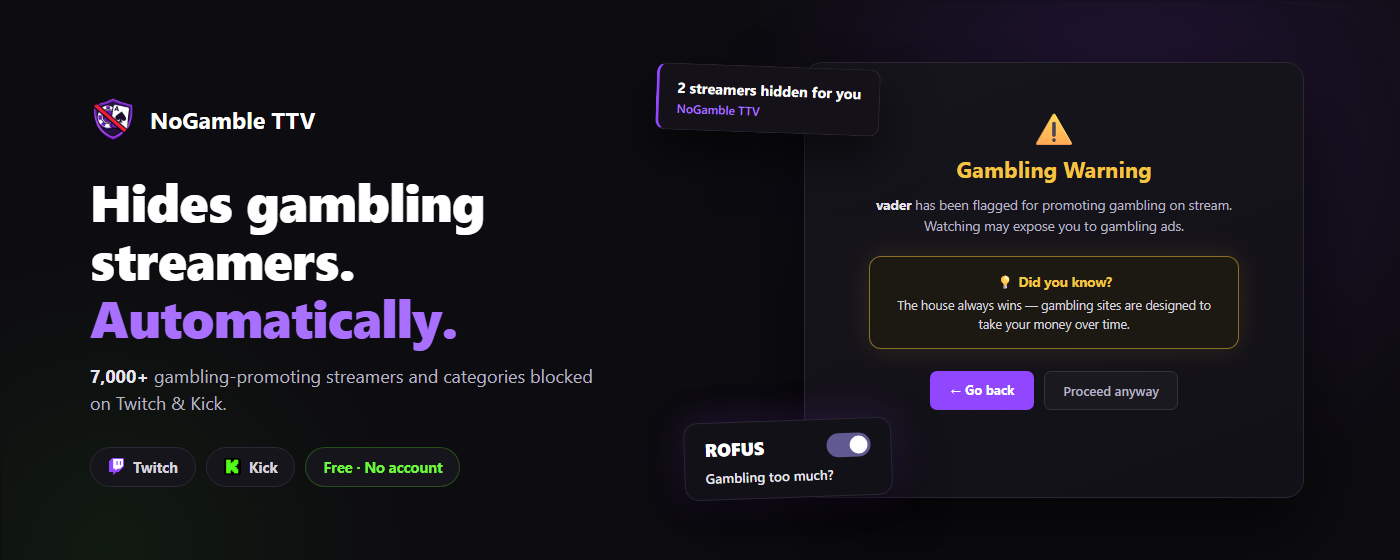
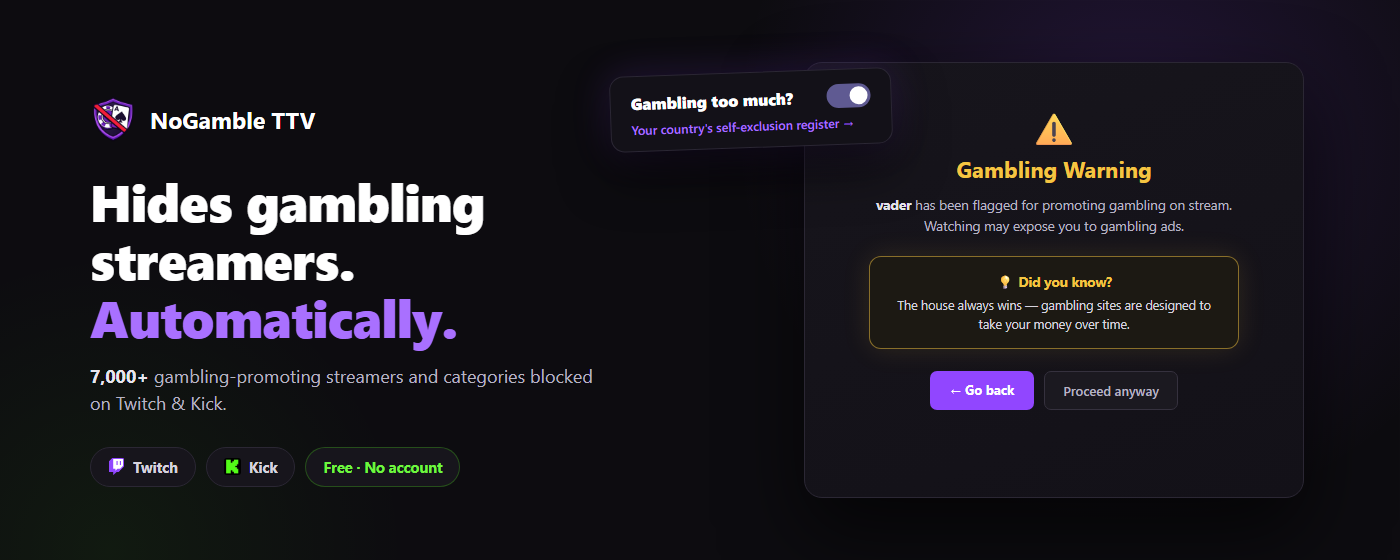
chore: refine store listing visuals
- poster-sized type so text stays readable at listing scale
- remove '2 streamers hidden' fragment (UI that no longer exists)
- generic self-exclusion widget mock — no real register brands
- drop browser pills and baked-in language count

diff --git a/design/src/store-image.html b/design/src/store-image.html
@@ -11,147 +11,79 @@
     color: #fff;
     position: relative;
   }
-  /* Ambient glows */
   .glow-purple {
     position: absolute; width: 900px; height: 900px; right: -220px; top: -260px;
-    background: radial-gradient(circle, rgba(145,70,255,0.14) 0%, transparent 62%);
+    background: radial-gradient(circle, rgba(145,70,255,0.15) 0%, transparent 62%);
   }
   .glow-green {
     position: absolute; width: 700px; height: 700px; left: -200px; bottom: -300px;
-    background: radial-gradient(circle, rgba(83,252,24,0.06) 0%, transparent 60%);
+    background: radial-gradient(circle, rgba(83,252,24,0.07) 0%, transparent 60%);
   }
 
   /* ── Left column ─────────────────────────────────────── */
-  .left { position: absolute; left: 64px; top: 88px; width: 400px; }
-  .brand { display: flex; align-items: center; gap: 14px; margin-bottom: 42px; }
-  .brand img { width: 46px; height: 46px; border-radius: 10px; }
-  .brand .name { font-size: 23px; font-weight: 700; letter-spacing: 0.2px; }
-  h1 { font-size: 46px; line-height: 1.13; font-weight: 800; letter-spacing: -0.5px; }
+  .left { position: absolute; left: 60px; top: 110px; width: 560px; }
+  .brand { display: flex; align-items: center; gap: 16px; margin-bottom: 48px; }
+  .brand img { width: 56px; height: 56px; border-radius: 12px; }
+  .brand .name { font-size: 30px; font-weight: 700; letter-spacing: 0.2px; }
+  h1 { font-size: 68px; line-height: 1.08; font-weight: 800; letter-spacing: -1px; }
   h1 .accent { color: #a970ff; }
-  .sub { margin-top: 18px; font-size: 16.5px; line-height: 1.55; color: #b8b4c2; max-width: 380px; }
-  .checks { margin-top: 34px; display: flex; flex-direction: column; gap: 16px; }
-  .check { display: flex; align-items: center; gap: 12px; font-size: 16px; color: #e8e6ee; font-weight: 600; }
-  .check .tick {
-    width: 24px; height: 24px; border-radius: 50%; flex-shrink: 0;
-    background: rgba(83,252,24,0.13); color: #6ff53f;
-    display: flex; align-items: center; justify-content: center;
-    font-size: 13px; font-weight: 700;
+  .sub { margin-top: 28px; font-size: 26px; line-height: 1.45; color: #c9c5d4; max-width: 520px; font-weight: 600; }
+  .sub b { color: #fff; }
+  .pills { margin-top: 40px; display: flex; gap: 12px; flex-wrap: wrap; }
+  .pill {
+    display: flex; align-items: center; gap: 10px;
+    background: #17151c; border: 1.5px solid #322e3c; border-radius: 999px;
+    padding: 13px 24px; font-size: 20px; font-weight: 700; color: #e8e6ee;
   }
-  .check img { width: 19px; height: 19px; border-radius: 4px; margin: 0 1px; vertical-align: -3px; }
-  .browsers { margin-top: 44px; display: flex; gap: 10px; }
-  .bpill {
-    display: flex; align-items: center; gap: 8px;
-    background: #17151c; border: 1px solid #29262f; border-radius: 999px;
-    padding: 8px 16px; font-size: 14px; font-weight: 600; color: #d6d3de;
-  }
-  .bpill img { width: 17px; height: 17px; }
+  .pill img { width: 24px; height: 24px; border-radius: 5px; }
+  .pill.free { color: #6ff53f; border-color: rgba(83,252,24,0.3); }
 
   /* ── Hero overlay card ───────────────────────────────── */
   .overlay-card {
-    position: absolute; right: 62px; top: 108px; width: 620px; height: 584px;
+    position: absolute; right: 56px; top: 96px; width: 560px; height: 608px;
     background: linear-gradient(160deg, #17151c 0%, #131118 100%);
-    border: 1px solid #2b2734; border-radius: 20px;
+    border: 1px solid #2b2734; border-radius: 22px;
     box-shadow: 0 40px 90px rgba(0,0,0,0.65);
-    padding: 118px 58px 0; text-align: center;
+    padding: 64px 44px 0; text-align: center;
     overflow: hidden;
   }
-  /* faux blurred stream peeking behind the warning */
-  .stream-ghost {
-    position: absolute; inset: 0 0 auto 0; height: 96px;
-    background: linear-gradient(90deg, rgba(145,70,255,0.10), rgba(145,70,255,0.03) 55%, rgba(83,252,24,0.05));
-    border-bottom: 1px solid rgba(255,255,255,0.04);
-  }
-  .stream-ghost .avatar {
-    position: absolute; left: 156px; top: 24px; width: 44px; height: 44px; border-radius: 50%;
-    background: radial-gradient(circle at 35% 30%, rgba(169,112,255,0.45), rgba(169,112,255,0.12));
-    border: 2px solid rgba(235,72,66,0.75);
-  }
-  .stream-ghost .fake-title {
-    position: absolute; left: 214px; top: 30px; width: 190px; height: 13px; border-radius: 7px;
-    background: rgba(255,255,255,0.09);
-  }
-  .stream-ghost .fake-sub {
-    position: absolute; left: 214px; top: 53px; width: 120px; height: 10px; border-radius: 5px;
-    background: rgba(255,255,255,0.055);
-  }
-  .stream-ghost .live {
-    position: absolute; right: 26px; top: 32px;
-    background: rgba(235,72,66,0.9); color: #fff; font-size: 11px; font-weight: 700;
-    padding: 3px 10px; border-radius: 5px; letter-spacing: 1px;
-  }
-  .warn-emoji { font-size: 46px; line-height: 1; }
-  .warn-title { margin-top: 16px; font-size: 27px; font-weight: 700; color: #f5c542; }
-  .warn-body { margin: 14px auto 0; font-size: 15px; line-height: 1.6; color: #b8b4c2; max-width: 430px; }
-  .warn-body b { color: #e8e6ee; }
+  .warn-emoji { font-size: 54px; line-height: 1; }
+  .warn-title { margin-top: 18px; font-size: 34px; font-weight: 700; color: #f5c542; }
+  .warn-body { margin: 16px auto 0; font-size: 19px; line-height: 1.55; color: #c9c5d4; max-width: 440px; }
+  .warn-body b { color: #fff; }
   .nudge {
-    margin: 30px auto 0; max-width: 440px;
-    background: #1c1913; border: 1px solid rgba(245,197,66,0.5); border-radius: 14px;
-    box-shadow: 0 0 34px rgba(245,197,66,0.13);
-    padding: 22px 30px;
+    margin: 30px auto 0; max-width: 450px;
+    background: #1c1913; border: 1.5px solid rgba(245,197,66,0.55); border-radius: 16px;
+    box-shadow: 0 0 38px rgba(245,197,66,0.14);
+    padding: 24px 30px;
   }
-  .nudge .bulb { font-size: 22px; }
-  .nudge .nt { margin-top: 6px; font-size: 15px; font-weight: 700; color: #f5c542; }
-  .nudge .nb { margin-top: 8px; font-size: 14px; line-height: 1.55; color: #d6d3de; }
-  .btns { margin-top: 34px; display: flex; gap: 12px; justify-content: center; }
+  .nudge .nt { font-size: 20px; font-weight: 700; color: #f5c542; }
+  .nudge .nb { margin-top: 10px; font-size: 18px; line-height: 1.5; color: #e0dde8; }
+  .btns { margin-top: 34px; display: flex; gap: 14px; justify-content: center; }
   .btn-back {
-    background: #9146FF; color: #fff; font-size: 14.5px; font-weight: 700;
-    border-radius: 8px; padding: 12px 24px;
+    background: #9146FF; color: #fff; font-size: 19px; font-weight: 700;
+    border-radius: 10px; padding: 15px 30px;
   }
   .btn-proceed {
-    background: #1b1920; border: 1px solid #35313e; color: #b8b4c2;
-    font-size: 14.5px; font-weight: 600; border-radius: 8px; padding: 12px 22px;
+    background: #1b1920; border: 1.5px solid #35313e; color: #b8b4c2;
+    font-size: 19px; font-weight: 600; border-radius: 10px; padding: 15px 26px;
   }
-
-  /* ── Floating fragment: sidebar hidden-count ─────────── */
-  .sidebar-frag {
-    position: absolute; left: 428px; top: 56px; width: 296px;
-    background: #141218; border: 1px solid #2b2734; border-radius: 14px;
-    box-shadow: 0 26px 60px rgba(0,0,0,0.6);
-    padding: 18px 20px 20px; transform: rotate(-2deg); z-index: 3;
-  }
-  .sidebar-frag .head {
-    display: flex; justify-content: space-between; align-items: center;
-    font-size: 13px; font-weight: 700; color: #8e8a99; letter-spacing: 0.6px;
-    margin-bottom: 13px; text-transform: uppercase;
-  }
-  .sidebar-frag .inner {
-    border-left: 3px solid #9146FF; background: #191622; border-radius: 6px;
-    padding: 13px 16px;
-  }
-  .sidebar-frag .l1 { font-size: 16.5px; font-weight: 700; }
-  .sidebar-frag .l2 { margin-top: 5px; font-size: 13.5px; color: #a970ff; font-weight: 600; }
-  .sidebar-frag .l3 { margin-top: 7px; font-size: 12px; color: #767283; }
 
   /* ── Floating fragment: self-exclusion widget ────────── */
+  /* Positioned top-left of the stream card — matches its real placement */
   .widget-frag {
-    position: absolute; left: 452px; top: 610px; z-index: 3;
-    background: #131118; border: 1px solid #2b2734; border-radius: 16px;
-    box-shadow: 0 26px 60px rgba(0,0,0,0.6), 0 0 44px rgba(145,70,255,0.18);
-    padding: 18px 24px 17px; transform: rotate(1.6deg); width: 252px;
+    position: absolute; left: 566px; top: 52px; z-index: 3;
+    background: #131118; border: 1px solid #2b2734; border-radius: 18px;
+    box-shadow: 0 26px 60px rgba(0,0,0,0.6), 0 0 44px rgba(145,70,255,0.2);
+    padding: 20px 28px 19px; transform: rotate(-2deg); width: 392px;
   }
-  .widget-frag .row { display: flex; align-items: center; justify-content: space-between; }
-  .widget-frag .reg { font-size: 21px; font-weight: 800; letter-spacing: 0.4px; }
-  .toggle {
-    width: 52px; height: 28px; border-radius: 999px; background: #5f5a92; position: relative;
-  }
-  .toggle .knob {
-    position: absolute; right: 3px; top: 3px; width: 22px; height: 22px; border-radius: 50%;
-    background: #fff; display: flex; align-items: center; justify-content: center;
-    color: #4b4680; font-size: 10px; font-weight: 800;
-  }
-  .widget-frag .q { margin-top: 9px; font-size: 15.5px; font-weight: 600; color: #e8e6ee; }
+  .widget-frag .row { display: flex; align-items: center; justify-content: space-between; gap: 16px; }
+  .widget-frag .reg { font-size: 21px; font-weight: 800; letter-spacing: 0.2px; }
+  .toggle { width: 56px; height: 30px; border-radius: 999px; background: #5f5a92; position: relative; flex-shrink: 0; }
+  .toggle .knob { position: absolute; right: 3px; top: 3px; width: 24px; height: 24px; border-radius: 50%; background: #fff; }
+  .widget-frag .q { margin-top: 10px; font-size: 16.5px; font-weight: 600; color: #a970ff; }
 
-  /* ── Bottom-right platform tag ───────────────────────── */
-  .platforms {
-    position: absolute; right: 62px; bottom: 46px; display: flex; gap: 10px; align-items: center;
-    font-size: 14px; color: #8e8a99; font-weight: 600;
-  }
-  .platforms .ppill {
-    display: flex; align-items: center; gap: 8px;
-    background: #17151c; border: 1px solid #29262f; border-radius: 999px;
-    padding: 7px 15px; color: #d6d3de;
-  }
-  .platforms img { width: 16px; height: 16px; border-radius: 3px; }
+  .site { position: absolute; left: 60px; bottom: 44px; font-size: 17px; color: #767283; font-weight: 600; }
 </style>
 </head>
 <body>
@@ -164,32 +96,20 @@
       <div class="name">NoGamble TTV</div>
     </div>
     <h1>Hides gambling streamers.<br><span class="accent">Automatically.</span></h1>
-    <p class="sub">Blocks gambling-promoting streamers and categories on Twitch &amp; Kick — with warnings and self-exclusion help when it matters.</p>
-    <div class="checks">
-      <div class="check"><span class="tick">✓</span><span>7,000+ streamers &amp; categories blocked</span></div>
-      <div class="check"><span class="tick">✓</span><span>Works on&nbsp;<img src="twitch-favicon.png" alt="">&nbsp;Twitch and&nbsp;<img src="kick-favicon.png" alt="">&nbsp;Kick</span></div>
-      <div class="check"><span class="tick">✓</span><span>Free · no account · 11 languages</span></div>
-    </div>
-    <div class="browsers">
-      <div class="bpill"><img src="chrome-favicon.png" alt="">Chrome</div>
-      <div class="bpill"><img src="edge-favicon.svg" alt="">Edge</div>
-      <div class="bpill"><img src="firefox-favicon.png" alt="">Firefox</div>
+    <p class="sub"><b>7,000+</b> streamers &amp; categories blocked on Twitch &amp; Kick.</p>
+    <div class="pills">
+      <div class="pill"><img src="twitch-favicon.png" alt="">Twitch</div>
+      <div class="pill"><img src="kick-favicon.png" alt="">Kick</div>
+      <div class="pill free">Free · No account</div>
     </div>
   </div>
 
   <div class="overlay-card">
-    <div class="stream-ghost">
-      <div class="avatar"></div>
-      <div class="fake-title"></div>
-      <div class="fake-sub"></div>
-      <div class="live">LIVE</div>
-    </div>
     <div class="warn-emoji">⚠</div>
     <div class="warn-title">Gambling Warning</div>
-    <p class="warn-body"><b>vader</b> has been flagged for promoting gambling on stream. Watching this content may expose you to gambling ads.</p>
+    <p class="warn-body"><b>vader</b> has been flagged for promoting gambling on stream.</p>
     <div class="nudge">
-      <div class="bulb">💡</div>
-      <div class="nt">Did you know?</div>
+      <div class="nt">💡 Did you know?</div>
       <div class="nb">The house always wins — gambling sites are designed to take your money over time.</div>
     </div>
     <div class="btns">
@@ -198,23 +118,14 @@
     </div>
   </div>
 
-  <div class="sidebar-frag">
-    <div class="head"><span>For You</span></div>
-    <div class="inner">
-      <div class="l1">2 streamers hidden for you</div>
-      <div class="l2">Read more →</div>
-      <div class="l3">NoGamble TTV</div>
-    </div>
-  </div>
-
   <div class="widget-frag">
     <div class="row">
-      <div class="reg">ROFUS</div>
-      <div class="toggle"><div class="knob">❚❚</div></div>
+      <div class="reg">Gambling too much?</div>
+      <div class="toggle"><div class="knob"></div></div>
     </div>
-    <div class="q">Gambling too much?</div>
+    <div class="q">Your country's self-exclusion register →</div>
   </div>
 
-  <div class="platforms">nogamblettv.app</div>
+  <div class="site">nogamblettv.app</div>
 </body>
 </html>

diff --git a/design/src/campaign-marquee.html b/design/src/campaign-marquee.html
@@ -60,31 +60,22 @@
   .btn-back { background: #9146FF; color: #fff; font-size: 13px; font-weight: 700; border-radius: 7px; padding: 10px 20px; }
   .btn-proceed { background: #1b1920; border: 1px solid #35313e; color: #b8b4c2; font-size: 13px; font-weight: 600; border-radius: 7px; padding: 10px 18px; }
 
-  /* Widget pill overlapping card */
+  /* Widget pill overlapping card — top-left, matching its real placement */
   .widget {
-    position: absolute; right: 508px; top: 420px; z-index: 3;
+    position: absolute; right: 508px; top: 72px; z-index: 3;
     background: #131118; border: 1px solid #2b2734; border-radius: 14px;
     box-shadow: 0 22px 50px rgba(0,0,0,0.6), 0 0 38px rgba(145,70,255,0.2);
-    padding: 14px 20px 13px; transform: rotate(-2deg); width: 208px;
+    padding: 14px 20px 13px; transform: rotate(-2deg); width: 282px;
   }
-  .widget .row { display: flex; align-items: center; justify-content: space-between; }
-  .widget .reg { font-size: 18px; font-weight: 800; }
+  .widget .row { display: flex; align-items: center; justify-content: space-between; gap: 12px; }
+  .widget .reg { font-size: 16px; font-weight: 800; }
   .toggle { width: 44px; height: 24px; border-radius: 999px; background: #5f5a92; position: relative; }
   .toggle .knob {
     position: absolute; right: 3px; top: 3px; width: 18px; height: 18px; border-radius: 50%;
     background: #fff;
   }
-  .widget .q { margin-top: 7px; font-size: 13.5px; font-weight: 600; color: #e8e6ee; }
+  .widget .q { margin-top: 7px; font-size: 12.5px; font-weight: 600; color: #a970ff; }
 
-  /* Hidden-streamers chip top-left of card */
-  .chip {
-    position: absolute; right: 520px; top: 66px; z-index: 3;
-    background: #141218; border: 1px solid #2b2734; border-left: 3px solid #9146FF;
-    border-radius: 10px; box-shadow: 0 22px 50px rgba(0,0,0,0.6);
-    padding: 13px 18px; transform: rotate(2deg);
-  }
-  .chip .l1 { font-size: 14.5px; font-weight: 700; }
-  .chip .l2 { margin-top: 3px; font-size: 12px; color: #a970ff; font-weight: 600; }
 </style>
 </head>
 <body>
@@ -119,17 +110,12 @@
     </div>
   </div>
 
-  <div class="chip">
-    <div class="l1">2 streamers hidden for you</div>
-    <div class="l2">NoGamble TTV</div>
-  </div>
-
   <div class="widget">
     <div class="row">
-      <div class="reg">ROFUS</div>
+      <div class="reg">Gambling too much?</div>
       <div class="toggle"><div class="knob"></div></div>
     </div>
-    <div class="q">Gambling too much?</div>
+    <div class="q">Your country's self-exclusion register →</div>
   </div>
 </body>
 </html>
